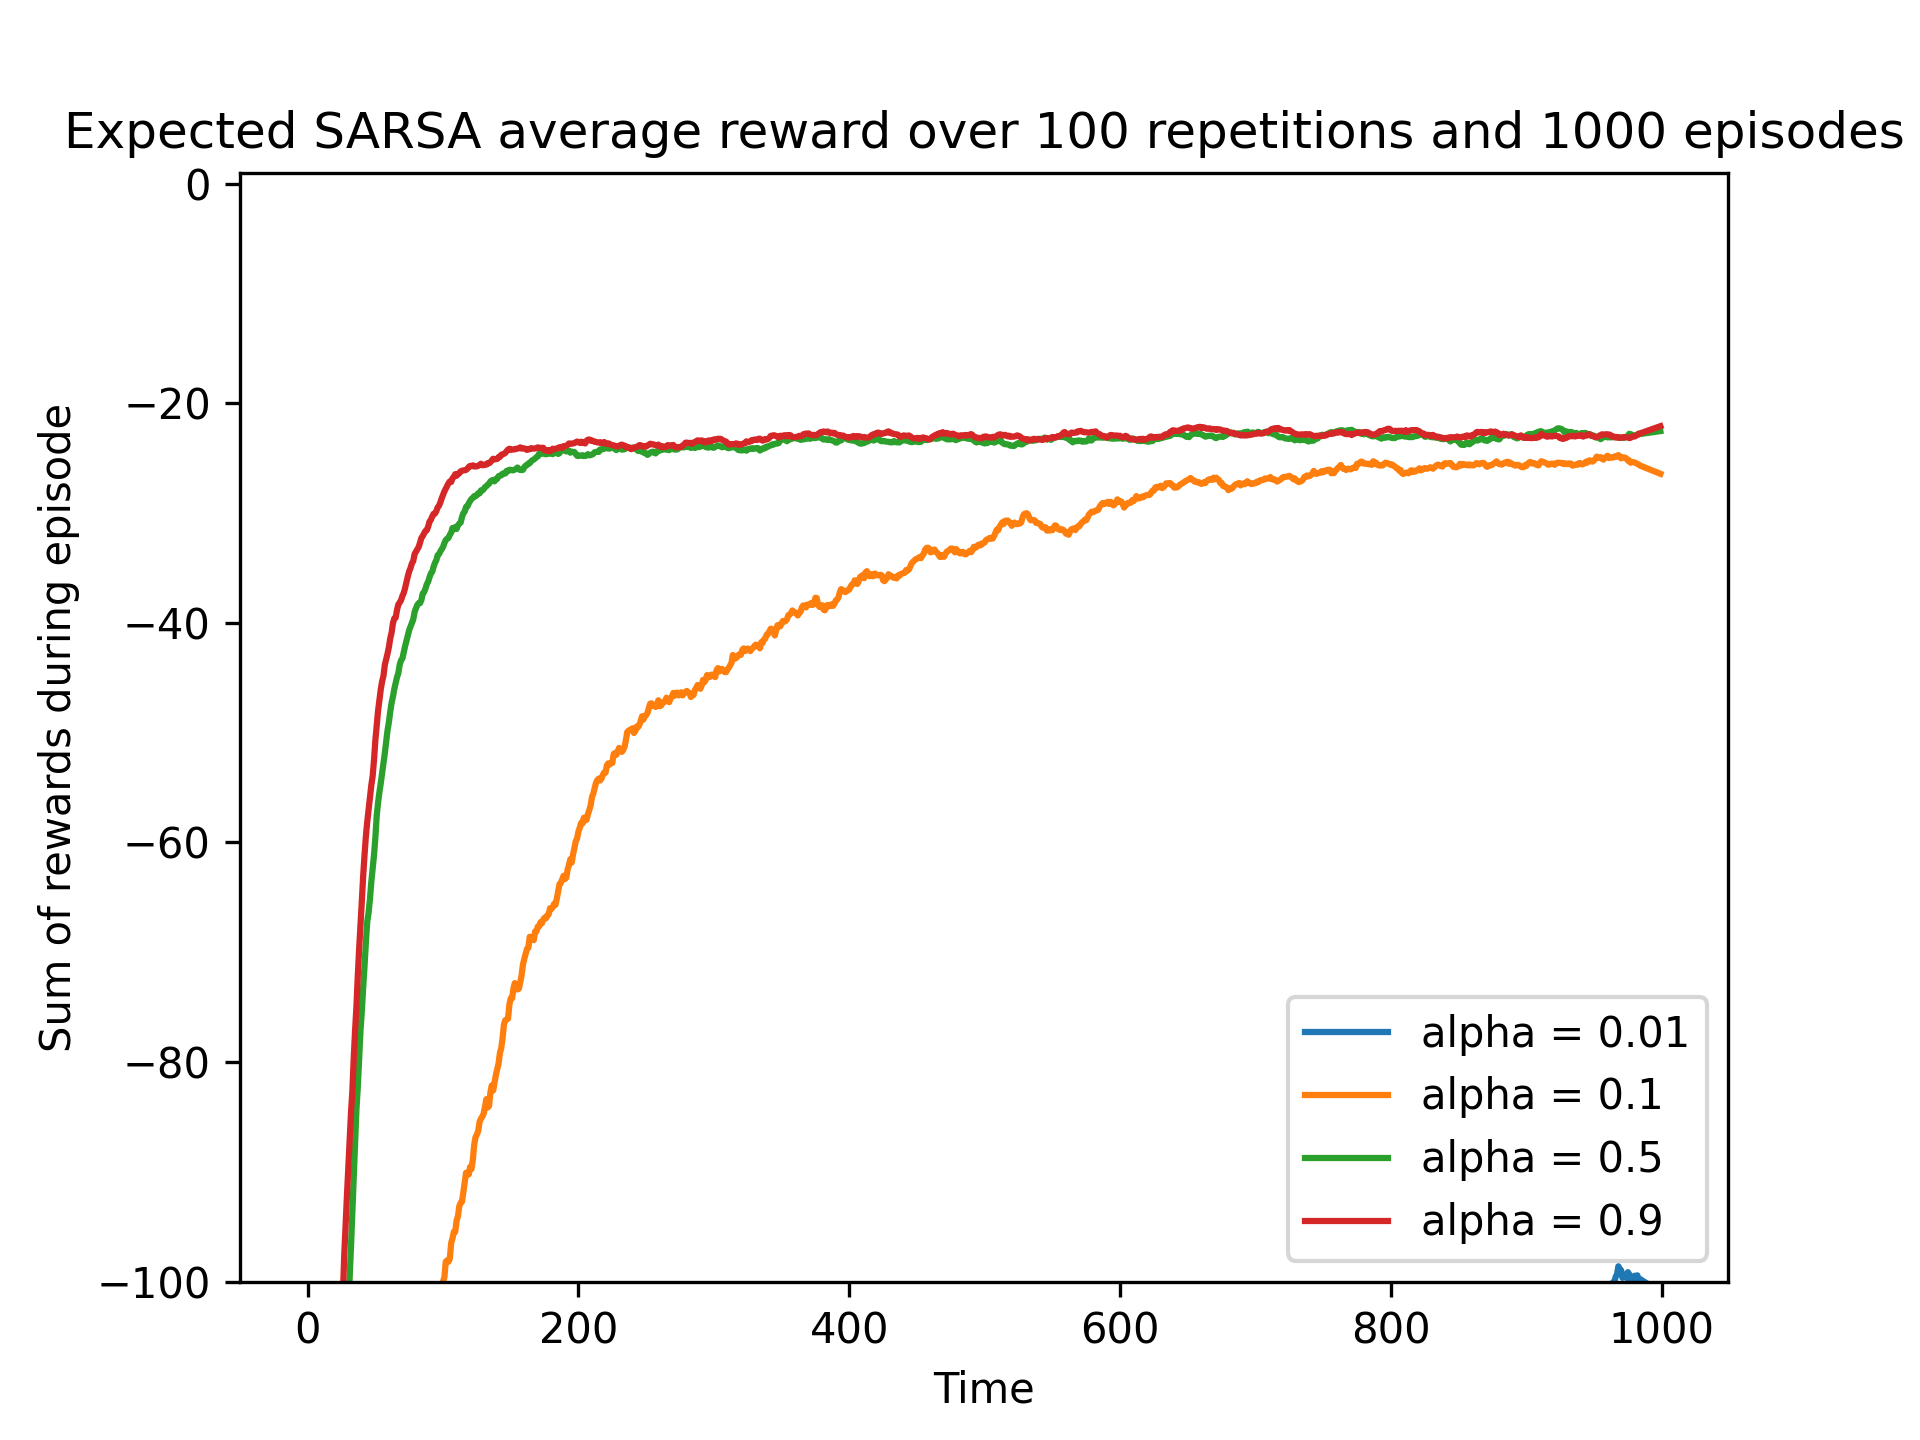
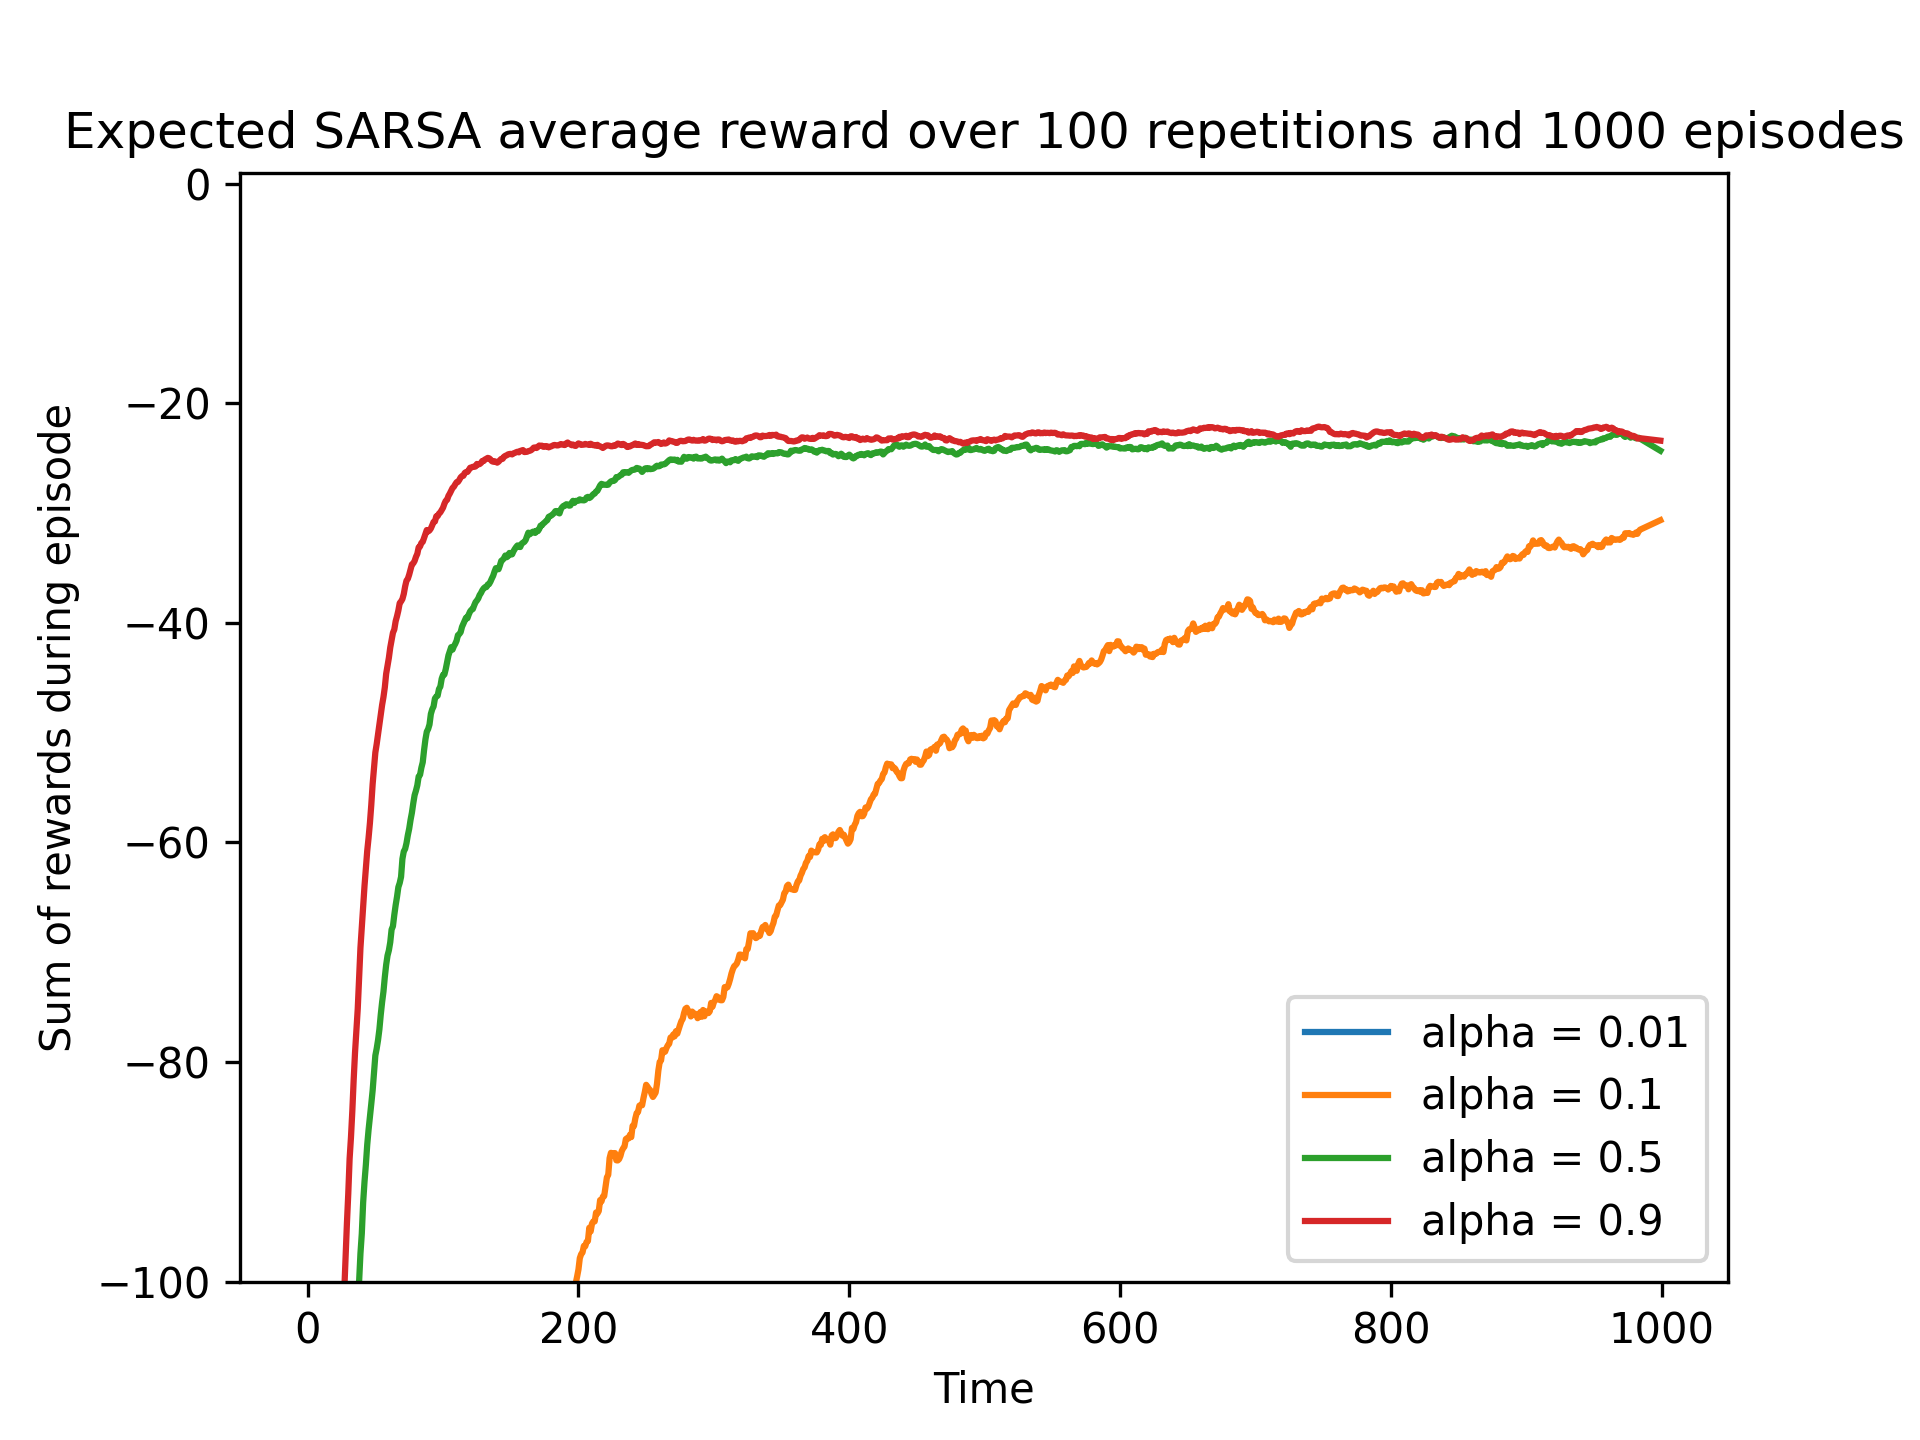
Windy ook done!

diff --git a/ShortCutExperiment.py b/ShortCutExperiment.py
@@ -1,23 +1,27 @@
 # Write your experiments in here! You can use the plotting helper functions from the previous assignment if you want.
 import numpy as np
 from ShortCutAgents import QLearningAgent, SARSAAgent, ExpectedSARSAAgent
-from ShortCutEnvironment import ShortcutEnvironment
+from ShortCutEnvironment import ShortcutEnvironment, WindyShortcutEnvironment
 from Helper import LearningCurvePlot, ComparisonPlot, smooth
 
 def run_repetitions(n_reps, n_episodes, agent_type):
     # Plot class for Q-Learning
-    if agent_type == "qlearning":
-        plot = LearningCurvePlot("Q-Learning average reward over 100 repetitons and 1000 episodes")
+    if agent_type == "qlearning" and n_episodes == 1000:
+        plot = LearningCurvePlot("Q-Learning average cumulative reward over 100 repetitons and 1000 episodes")
     # Plot class for SARSA
-    elif agent_type == "sarsa":
-        plot = LearningCurvePlot("SARSA average reward over 100 repetitions and 1000 episodes")
+    elif agent_type == "sarsa" and n_episodes == 1000:
+        plot = LearningCurvePlot("SARSA average cumulative reward over 100 repetitions and 1000 episodes")
     # Plot class for Expected SARSA
-    elif agent_type == "expectedsarsa":
-        plot = LearningCurvePlot("Expected SARSA average reward over 100 repetitions and 1000 episodes")
+    elif agent_type == "expectedsarsa" and n_episodes == 1000:
+        plot = LearningCurvePlot("Expected SARSA average cumulative reward over 100 repetitions and 1000 episodes")
     # Set the y-axis label
-    plot.ax.set_ylabel('Sum of rewards during episode')
+    if n_episodes == 1000:
+        plot.ax.set_ylabel('Sum of rewards during episode')
     # Set the alpha values
-    alpha = [0.01, 0.1, 0.5, 0.9]
+    if n_episodes == 10000:
+        alpha = [0.1]
+    else:
+        alpha = [0.01, 0.1, 0.5, 0.9]
     # For loop for using the different alpha values
     for l in range(len(alpha)):
         # Creating the rewards array
@@ -59,23 +63,63 @@ def run_repetitions(n_reps, n_episodes, agent_type):
                     rewards[episode] += reward
                     if env.isdone:
                         break
-        if agent_type == "qlearning":
+        if agent_type == "qlearning" and n_episodes == 10000:
+            print("Q-learning ShortCut environment 10000 episodes:")
             print_greedy_actions(agent.Q_value_tab)
-        elif agent_type == "sarsa":
+        elif agent_type == "sarsa"and n_episodes == 10000:
+            print("SARSA ShortCut environment 10000 episodes:")
             print_greedy_actions(agent.Q_value)
-        elif agent_type == "expectedsarsa":
+        elif agent_type == "expectedsarsa" and n_episodes == 10000:
+            print("Expected SARSA ShortCut environment 10000 episodes:")
             print_greedy_actions(agent.Q_value)
-        average_rewards = rewards / n_reps
-        smoothing_window = 31
-        average_rewards_smoothed = smooth(average_rewards, smoothing_window)
-        plot.add_curve(average_rewards_smoothed, label="alpha = " + str(alpha[l]))
-    if agent_type == "qlearning":
+        if n_episodes == 1000:
+            average_rewards = rewards / n_reps
+            smoothing_window = 31
+            average_rewards_smoothed = smooth(average_rewards, smoothing_window)
+            plot.add_curve(average_rewards_smoothed, label="alpha = " + str(alpha[l]))
+    if agent_type == "qlearning" and n_episodes == 1000:
         plot.save("Q-Learning")
-    elif agent_type == "sarsa":
+    elif agent_type == "sarsa" and n_episodes == 1000:
         plot.save("SARSA")
-    elif agent_type == "expectedsarsa":
+    elif agent_type == "expectedsarsa" and n_episodes == 1000:
         plot.save("Expected SARSA")
     return rewards
+
+def Windyenvironment(n_episodes, agent_type, alpha, epsilon):
+    env = WindyShortcutEnvironment()
+    n_actions = env.action_size()
+    n_states = env.state_size()
+
+    if agent_type == "qlearning":
+        agent = QLearningAgent(n_actions, n_states, epsilon)
+    elif agent_type == "sarsa":
+        agent = SARSAAgent(n_actions, n_states, epsilon)
+    for episode in range(n_episodes):
+        env.reset()
+        state = env.state()
+        if agent_type == "sarsa":
+            action = agent.select_action(state)
+        while True:
+            if agent_type == "qlearning":
+                action = agent.select_action(state)
+            reward = env.step(action)
+            new_state = env.state()
+            if agent_type == "qlearning":
+                agent.update(new_state, state, action, reward, alpha)
+            elif agent_type == "sarsa":
+                new_action = agent.select_action(new_state)
+                agent.update(state, action, reward, new_state, new_action, alpha, gamma=1.0)
+                action = new_action
+            state = new_state
+            if env.isdone:
+                break
+    if agent_type == "qlearning":
+        print("Q-learning Windy ShortCut environment 10000 episodes:")
+        print_greedy_actions(agent.Q_value_tab)
+    elif agent_type == "sarsa":
+        print("SARSA Windy ShortCut environment 10000 episodes:")
+        print_greedy_actions(agent.Q_value)
+
 
 
 
@@ -95,9 +139,27 @@ def print_greedy_actions(Q):
 def main():
     n_reps = 100
     n_steps = 1000
-    agent_type = "expectedsarsa"
+    n_steps_windy = 10000
+    n_reps_plot = 1
+    n_steps_plot = 10000
+    alpha_windy = 0.1
+    epsilon_windy = 0.1
+
+    agent_type = "qlearning"
+    rewards = run_repetitions(n_reps_plot, n_steps_plot, agent_type)
+
+    agent_type = "qlearning"
     rewards = run_repetitions(n_reps, n_steps, agent_type)
-    print(rewards)
+    agent_type = "sarsa"
+    rewards = run_repetitions(n_reps, n_steps, agent_type)
+    agent_type = "qlearning"
+
+    Windyenvironment(n_steps_windy, agent_type, alpha_windy, epsilon_windy)
+    agent_type = "sarsa"
+    Windyenvironment(n_steps_windy, agent_type, alpha_windy, epsilon_windy)
+    agent_type = "expectedsarsa"
+
+    rewards = run_repetitions(n_reps, n_steps, agent_type)
 
 if __name__ == '__main__':
     main()

diff --git a/ShortCutAgents.py b/ShortCutAgents.py
@@ -94,7 +94,7 @@ class ExpectedSARSAAgent(object):
             a = int(np.random.choice(probability,size = 1))
         return a  
         
-    def update(self, state, action, reward, next_state, alpha, gamma):
+    def update(self, state, action, reward, next_state_in_env, alpha, gamma):
         # exp_next_value = np.sum(self.Q_value[next_state] * (1 - self.epsilon)) + (self.epsilon / self.n_actions) * np.sum(self.Q_value[next_state])
         # exp_next_value = 0
         # for a in range(self.n_actions):
@@ -102,20 +102,19 @@ class ExpectedSARSAAgent(object):
         #         exp_next_value += self.Q_value[state, a] * self.epsilon
         #     exp_next_value += self.Q_value[state, a] / self.n_actions
 
-        # Calculate the probability of each action under the current policy
-        action_probabilities = np.ones(self.n_actions, dtype=float) * self.epsilon / self.n_actions
-        best_action = np.argmax(self.Q_value[next_state])
-        action_probabilities[best_action] += (1.0 - self.epsilon)
-        
-        # Calculate the expected Q-value for the next state
-        exp_next_value = np.sum(self.Q_value[next_state] * action_probabilities)
-        
-        # Calculate the TD error
+        # Calculate probability of selecting a non-optimal action
+        non_optimal = self.epsilon / self.n_actions
+        # Setting all actions to non-optimal probability
+        probabilities = np.ones(self.n_actions) * non_optimal
+        # Finding the best action in the next state in the environment
+        best_action_prob = np.argmax(self.Q_value[next_state_in_env])
+        # Setting the best action to the optimal probability
+        probabilities[best_action_prob] = (1.0 - self.epsilon) + probabilities[best_action_prob]
+        # Calculate the expected value from the probabilities for the next state
+        exp_next_value = np.sum(self.Q_value[next_state_in_env] * probabilities)
+        # Calculate the total TD error
         td_error = reward + gamma * exp_next_value - self.Q_value[state, action]
-        
-        # Update the Q-value for the current state-action pair
-        self.Q_value[state, action] += alpha * td_error
-        td_error = reward + gamma * exp_next_value - self.Q_value[state, action]
+        # Update the Q-value
         self.Q_value[state, action] += alpha * td_error
 
 def test():
